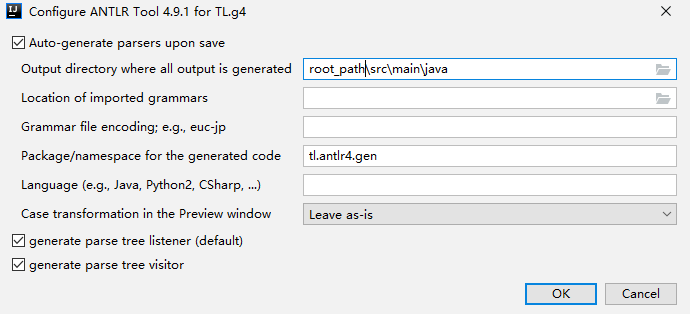
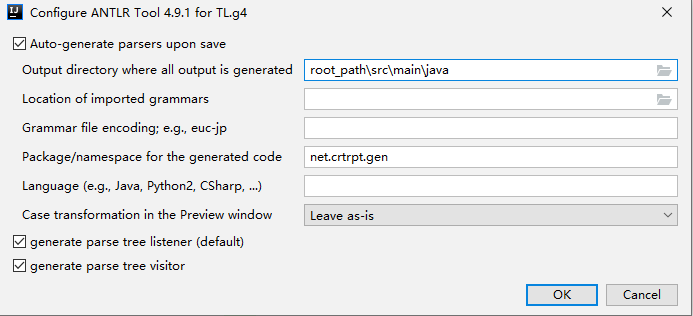
'更新包名'

diff --git a/src/main/java/net/crtrpt/EvalVisitor.java b/src/main/java/net/crtrpt/EvalVisitor.java
@@ -1,4 +1,4 @@
-package tl.antlr4;
+package net.crtrpt;
 
 import java.io.BufferedReader;
 import java.io.IOException;
@@ -10,13 +10,15 @@ import java.util.HashMap;
 import java.util.List;
 import java.util.Map;
 
+import net.crtrpt.gen.TLBaseVisitor;
+import net.crtrpt.gen.TLLexer;
+import net.crtrpt.gen.TLParser;
 import org.antlr.v4.runtime.ParserRuleContext;
 import org.antlr.v4.runtime.tree.ParseTree;
 import org.antlr.v4.runtime.tree.TerminalNode;
 
-import tl.antlr4.gen.*;
-import tl.antlr4.gen.TLParser.*;
-import tl.antlr4.gen.TLBaseVisitor;
+
+import net.crtrpt.gen.TLParser.*;
 
 public class EvalVisitor extends TLBaseVisitor<TLValue> {
 	private static ReturnValue returnValue = new ReturnValue();

diff --git a/src/main/java/net/crtrpt/Main.java b/src/main/java/net/crtrpt/Main.java
@@ -1,13 +1,13 @@
-package tl.antlr4;
+package net.crtrpt;
 
 import java.util.Collections;
 import java.util.Map;
 
+import net.crtrpt.gen.TLLexer;
+import net.crtrpt.gen.TLParser;
 import org.antlr.v4.runtime.CharStreams;
 import org.antlr.v4.runtime.CommonTokenStream;
 import org.antlr.v4.runtime.tree.ParseTree;
-import tl.antlr4.gen.TLLexer;
-import tl.antlr4.gen.TLParser;
 
 public class Main {
     public static void main(String[] args) {

diff --git a/src/main/java/net/crtrpt/ReturnValue.java b/src/main/java/net/crtrpt/ReturnValue.java
@@ -1,4 +1,4 @@
-package tl.antlr4;
+package net.crtrpt;
 
 public class ReturnValue extends RuntimeException {
 	public TLValue value;

diff --git a/src/main/java/net/crtrpt/EvalException.java b/src/main/java/net/crtrpt/EvalException.java
@@ -1,4 +1,4 @@
-package tl.antlr4;
+package net.crtrpt;
 
 import org.antlr.v4.runtime.ParserRuleContext;
 

diff --git a/src/main/java/net/crtrpt/Scope.java b/src/main/java/net/crtrpt/Scope.java
@@ -1,4 +1,4 @@
-package tl.antlr4;
+package net.crtrpt;
 
 import java.util.HashMap;
 import java.util.Map;

diff --git a/src/main/java/net/crtrpt/Function.java b/src/main/java/net/crtrpt/Function.java
@@ -1,4 +1,4 @@
-package tl.antlr4;
+package net.crtrpt;
 
 import java.util.List;
 import java.util.Map;

diff --git a/src/main/java/net/crtrpt/TLValue.java b/src/main/java/net/crtrpt/TLValue.java
@@ -1,4 +1,4 @@
-package tl.antlr4;
+package net.crtrpt;
 
 import java.util.List;
 

diff --git a/README.md b/README.md
@@ -1,4 +1,4 @@
-# 在idea中使用
+# 在idea中开发
 
 下载 idea 插件 antrl4
 
@@ -6,6 +6,11 @@
 
 ```
 Ctrl_Shift+G
+```
+# 在 android 中使用
+```
+
+
 ```
 
 ## (Un)license
